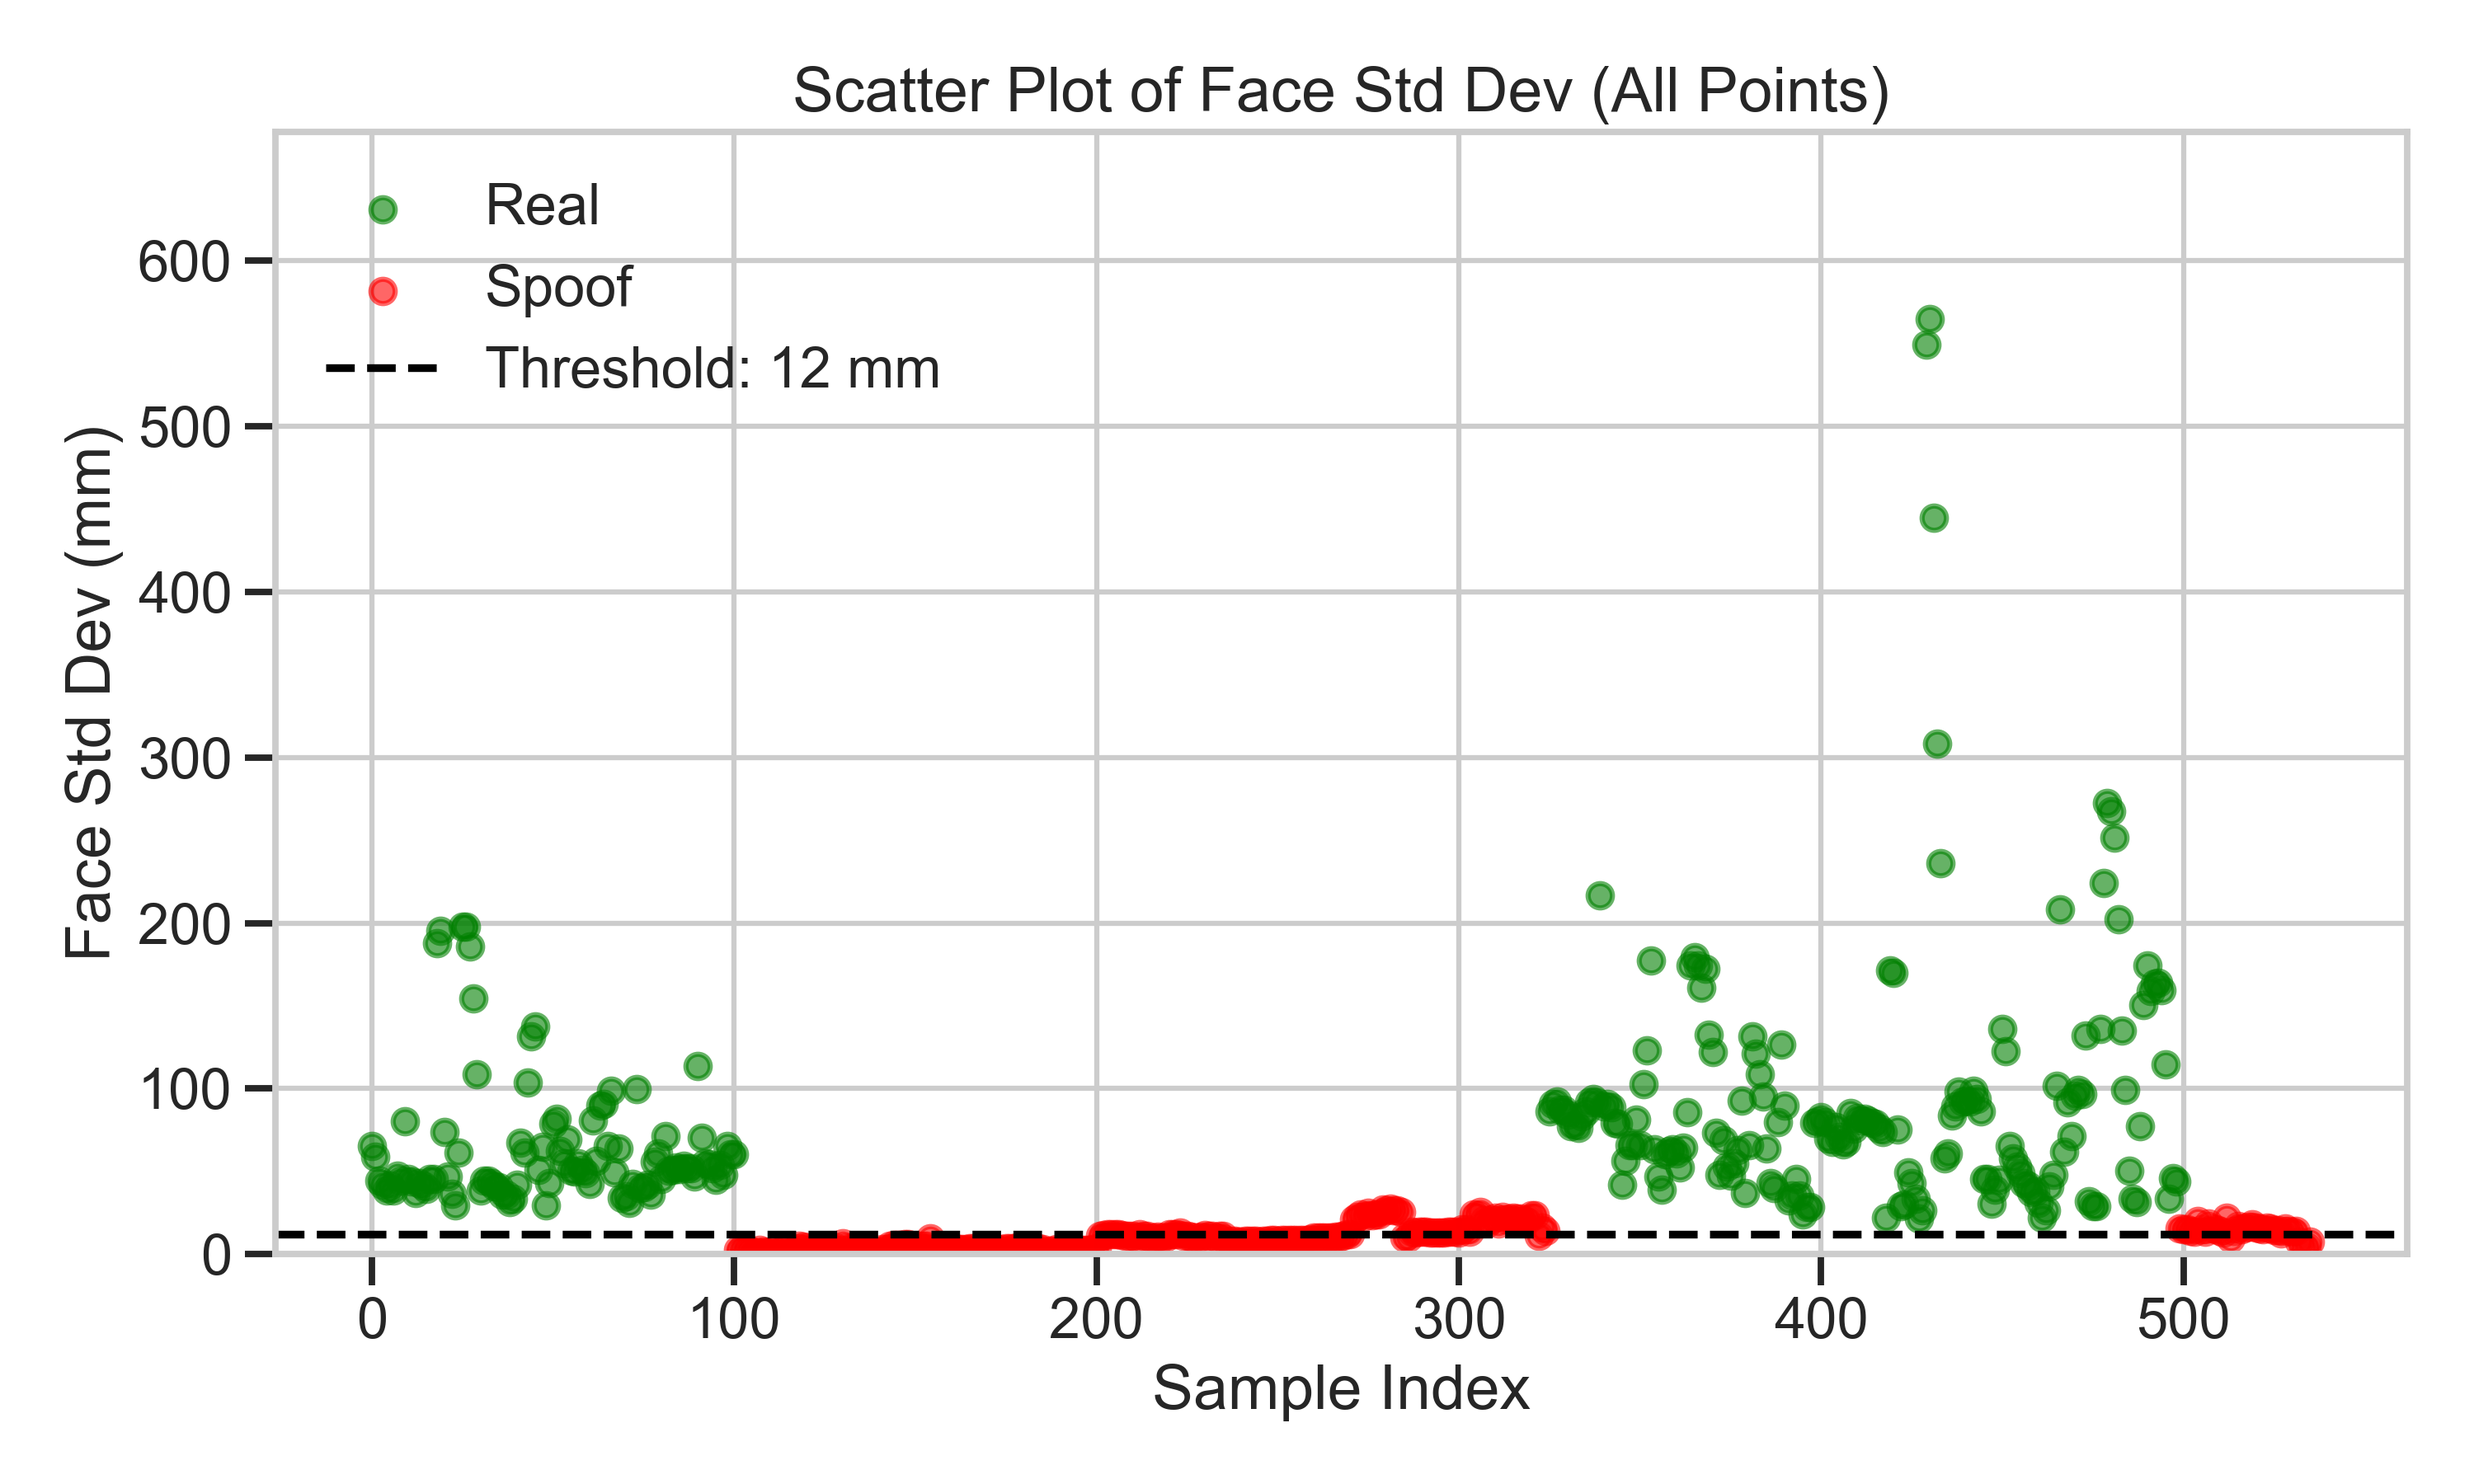
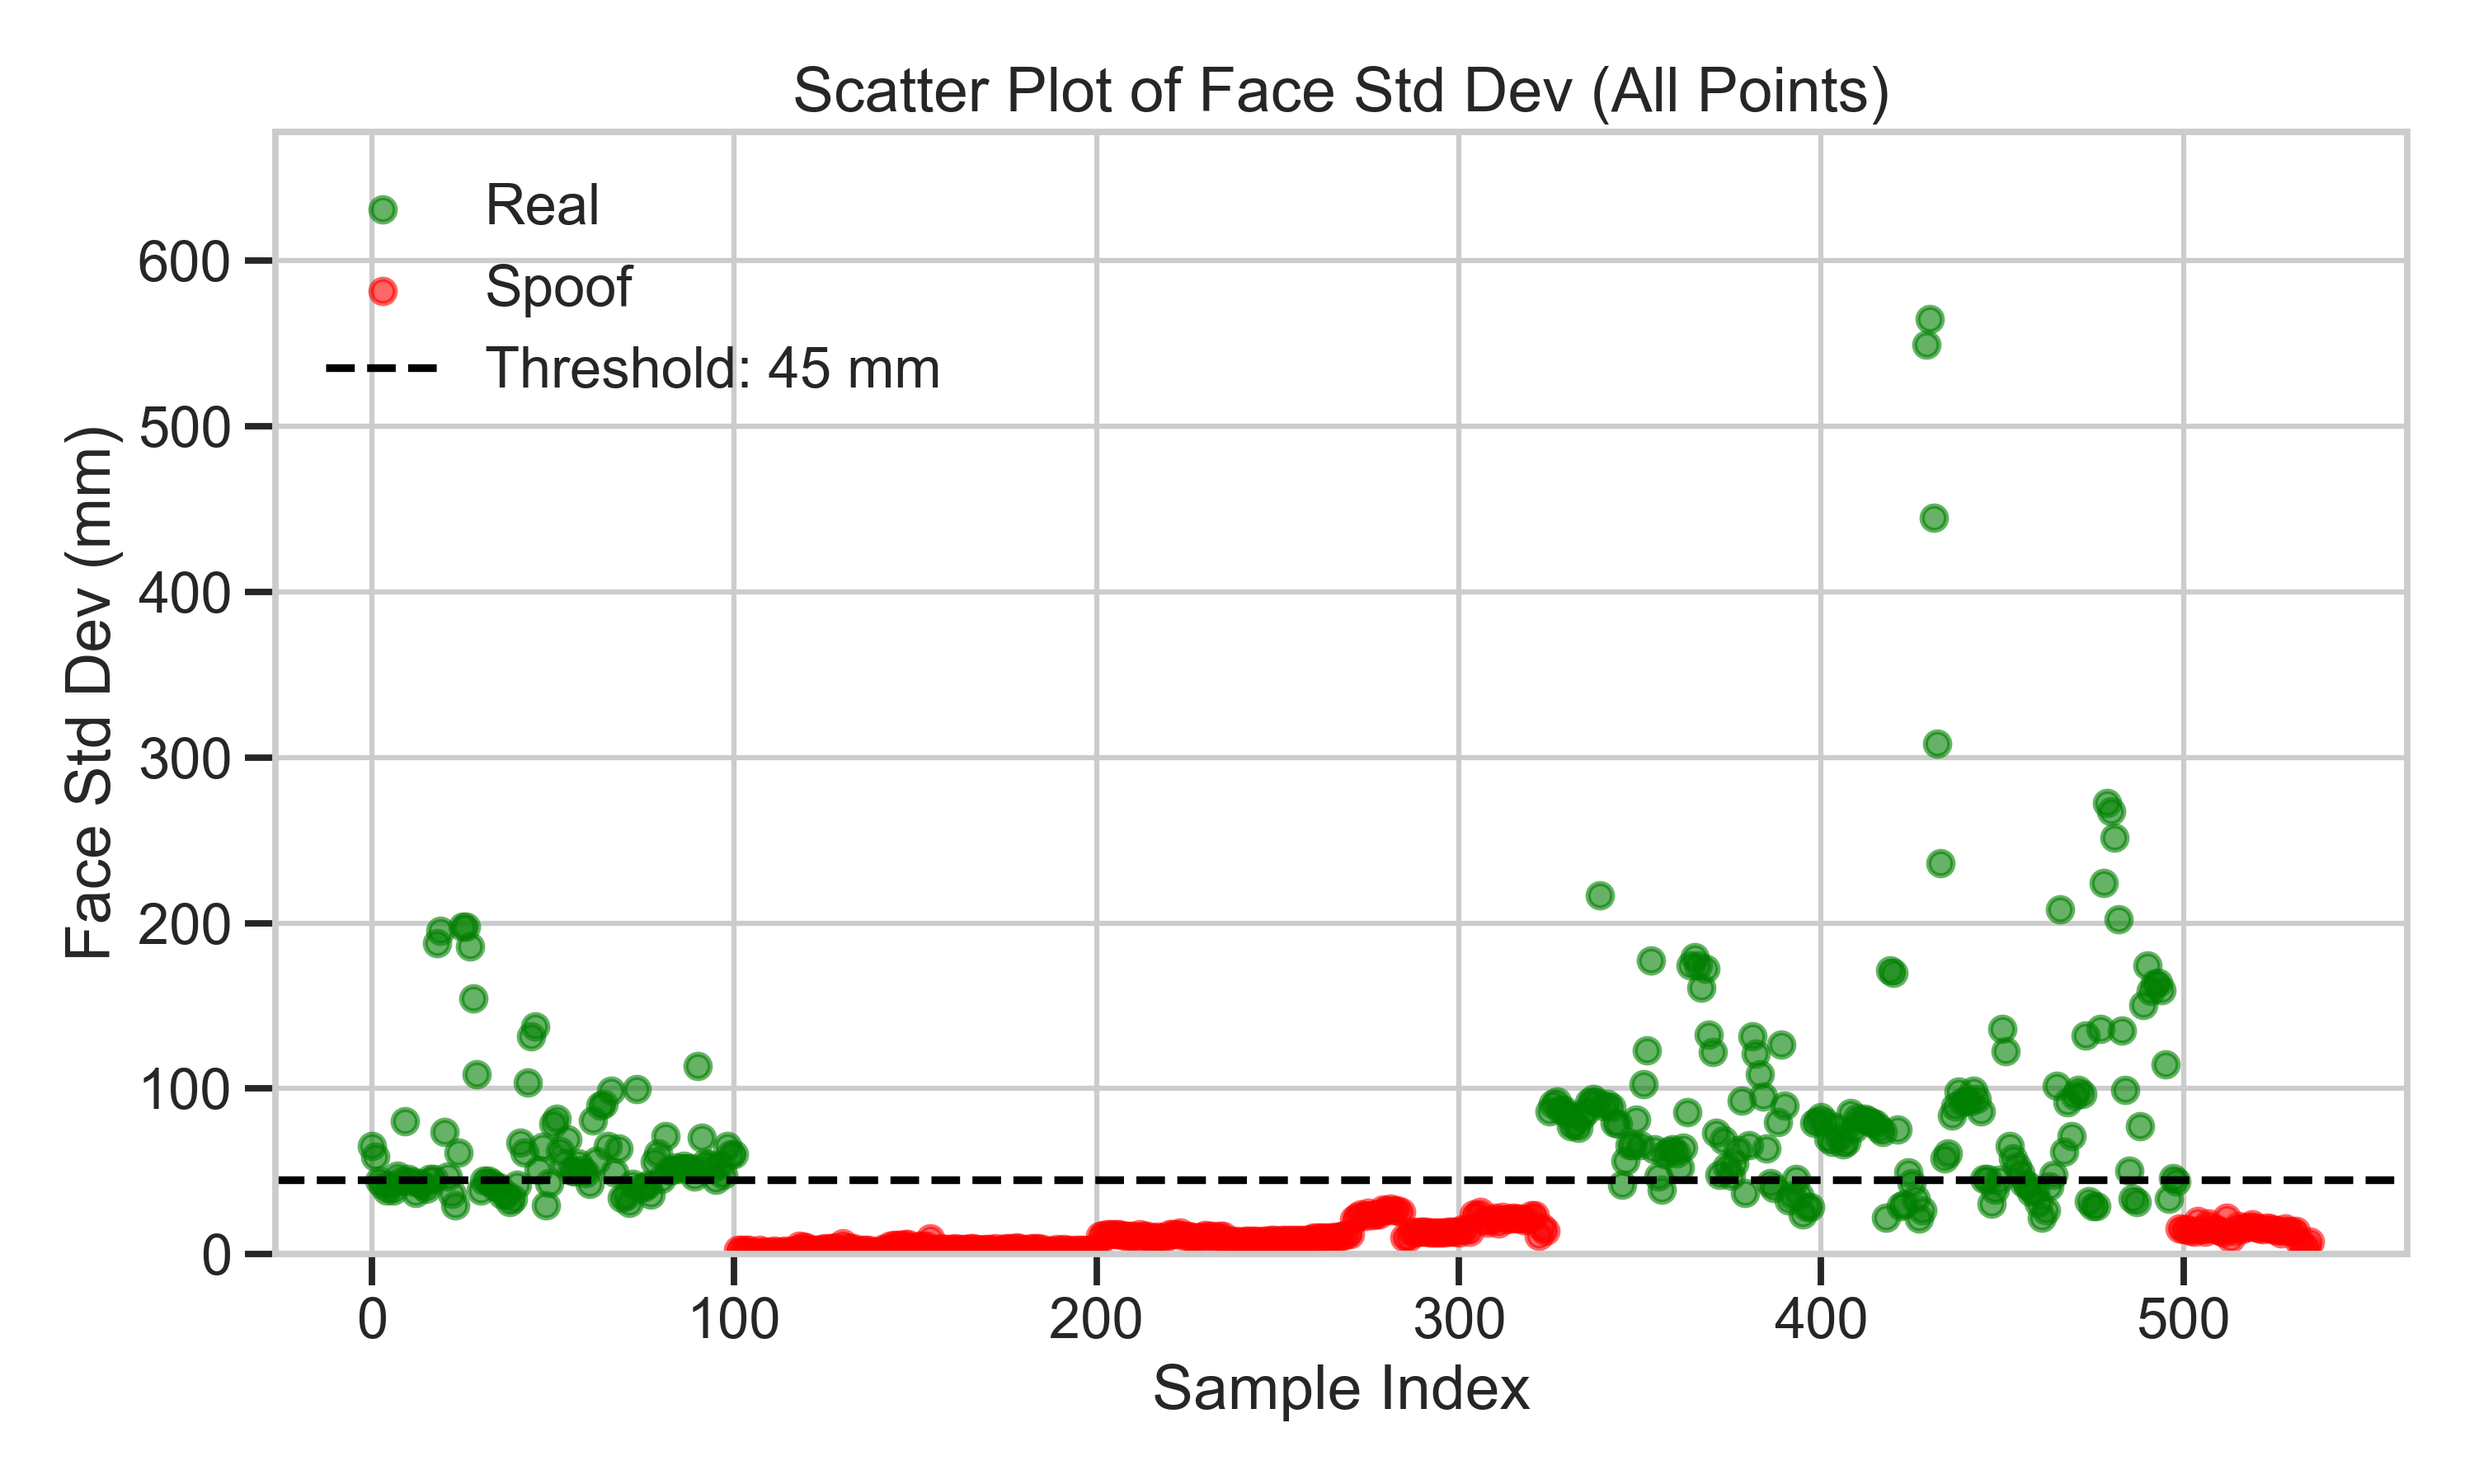
fix

Changed region(s): [[0.124, 0.7778, 0.961, 0.84], [0.31, 0.2178, 0.341, 0.28]]

diff --git a/screen/manage_attendance/test3d/ChungMinhChonNguong/TestDuLieuSauKhiLay.py b/screen/manage_attendance/test3d/ChungMinhChonNguong/TestDuLieuSauKhiLay.py
@@ -146,8 +146,8 @@ output_dir = 'plots'
 os.makedirs(output_dir, exist_ok=True)
 
 # Định nghĩa ngưỡng
-nose_eye_diff_threshold = 6  # mm
-face_std_dev_threshold = 12 # mm
+nose_eye_diff_threshold = 30  # mm
+face_std_dev_threshold = 45 # mm
 
 # 1. Biểu đồ scatter plot cho nose_eye_diff
 plt.figure(figsize=(10, 6))

diff --git a/screen/manage_attendance/test3d/ThuThap&ThongKeCacGocDo/MoTa.md b/screen/manage_attendance/test3d/ThuThap&ThongKeCacGocDo/MoTa.md
@@ -1,0 +1,1 @@
+fiel danhGia la lay nhieu goc, roi xuat ra . readJSon  cung dung duoc 
